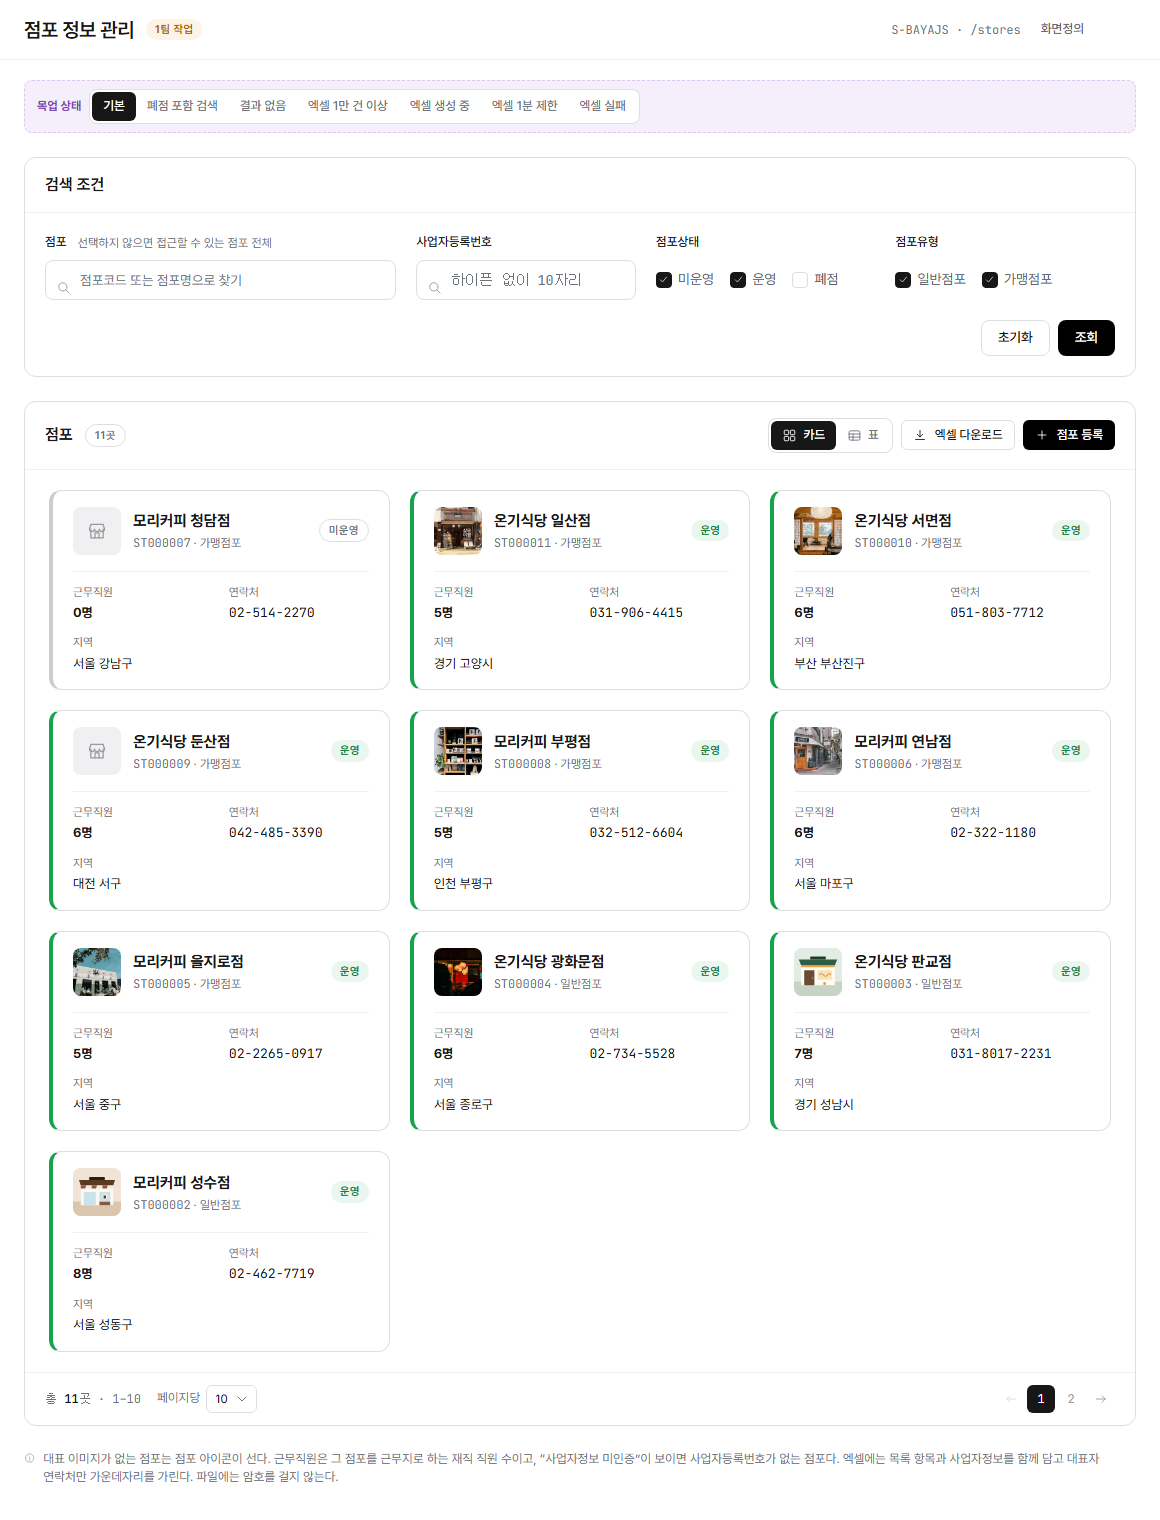
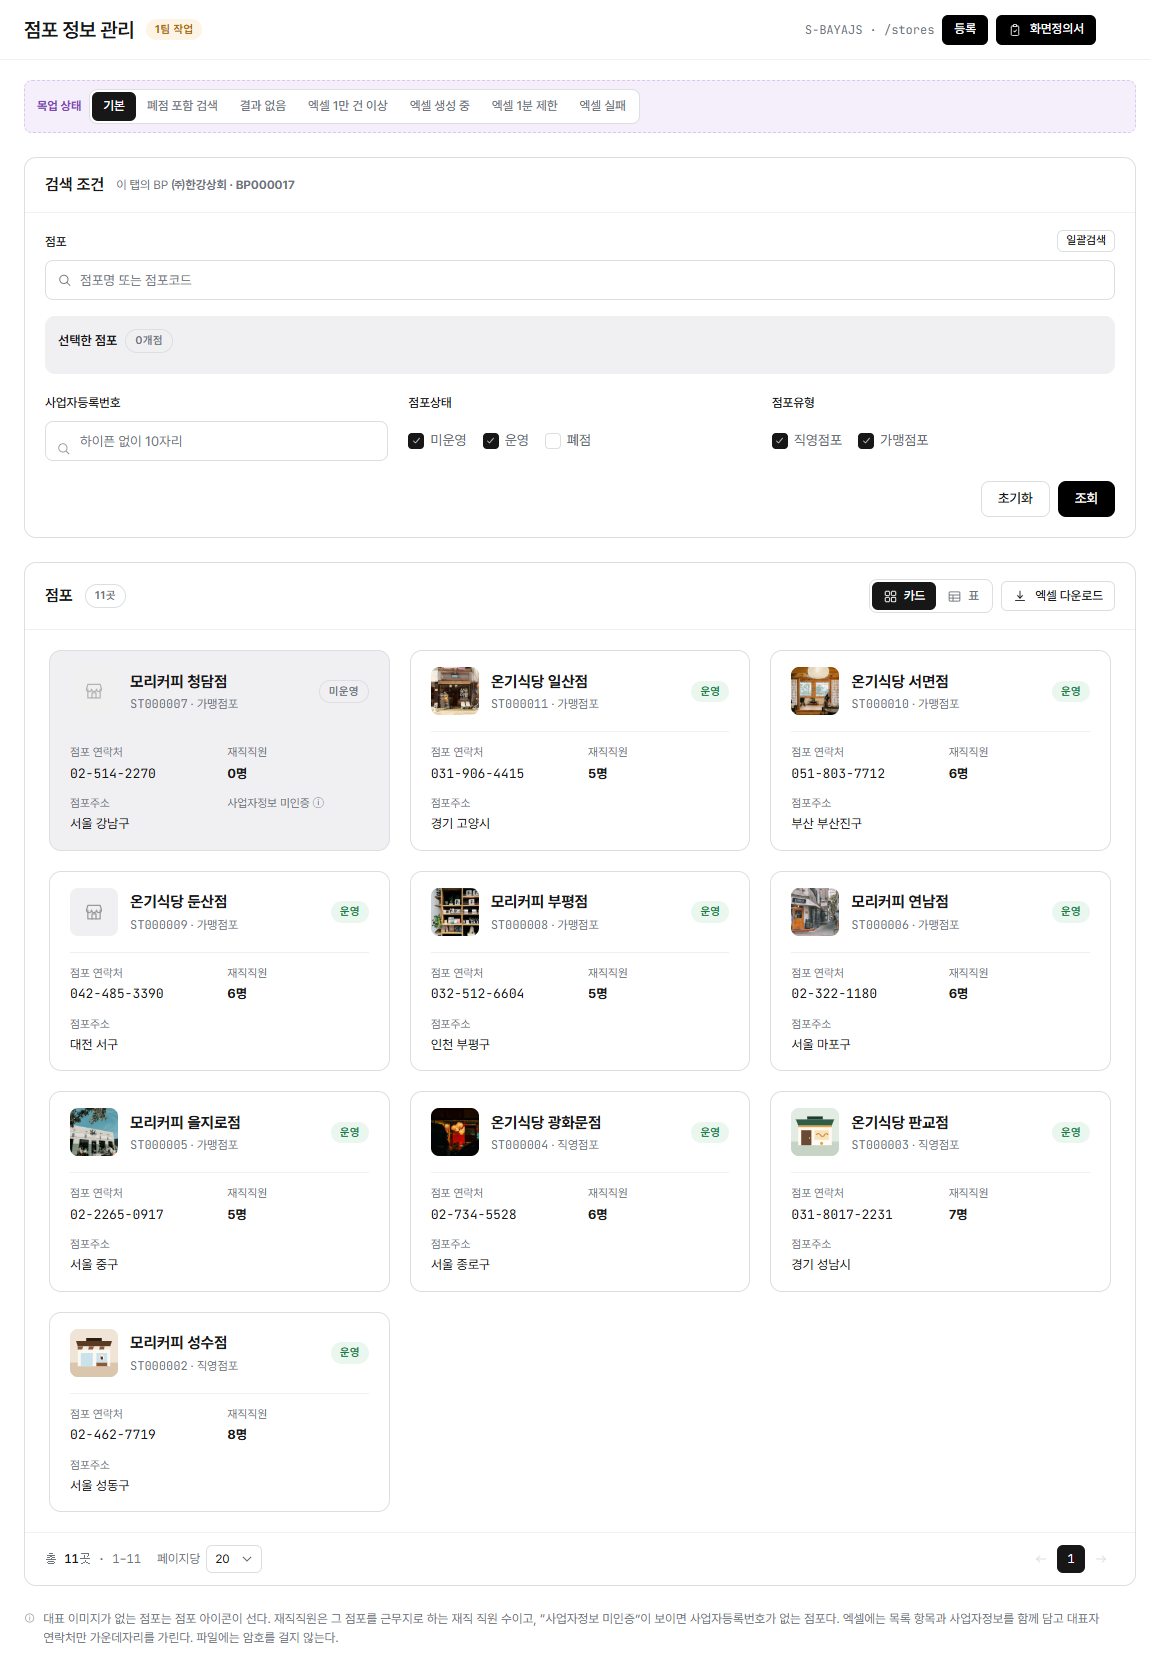
docs: 점포 목록 화면정의서 그림을 지금 목업으로 다시 찍음
화면정의서 PNG 가 옛 목업(카드 왼쪽 색 띠 · 근무직원 · 도구줄 등록 버튼)
그대로라 index.html?embed=1 을 카드 보기로 다시 찍고, 핀 16개를 바뀐 자리로 옮겼다.

diff --git a/docs/mockup/stores/stores-index.screen-def.html b/docs/mockup/stores/stores-index.screen-def.html
@@ -50,21 +50,21 @@
   "purpose": "# 화면 목적 및 기능 — 접근 가능한 점포를 검색·조회하고 카드/표로 목록을 확인하며, 신규 등록·엑셀 다운로드로 이어지는 점포 관리 진입 화면",
   "items": [
     { "x": 150, "y": 280, "title": "점포 · 사업자등록번호", "desc": "정의: 점포를 점포명 · 점포코드로 찾아 여러 곳 고르고([일괄검색]으로 한꺼번에도), 고른 점포만 보인다 · 고르지 않으면 접근 가능한 점포 전체\n사업자등록번호는 따로 넣고 하이픈을 빼고 숫자만 비교한다(일부만 넣어도 찾음, 2026-10-12)" },
-    { "x": 750, "y": 280, "title": "점포상태 필터", "desc": "정의: 미운영 · 운영 · 폐점 중 표시할 상태를 다중 선택" },
-    { "x": 985, "y": 280, "title": "점포유형 필터", "desc": "정의: 직영점포 · 가맹점포 중 표시할 유형을 다중 선택" },
-    { "x": 1045, "y": 337, "title": "초기화 · 조회", "desc": "정의: 검색 조건을 기본값으로 되돌리거나, 조건대로 목록을 다시 불러옴" },
-    { "x": 60, "y": 435, "title": "점포 목록 건수", "desc": "정의: 현재 검색 조건에 해당하는 점포 총 개수 표시" },
-    { "x": 825, "y": 435, "title": "카드 · 표 보기 전환", "desc": "정의: 같은 목록을 카드형 또는 표형으로 바꿔 보는 토글\n표 열: 순번 · 점포코드 · 점포명 · 점포유형 · 점포상태 · 사업자등록번호(없으면 「미인증」) · 점포 연락처 · 점포주소(시 · 군 · 구) · 재직직원 · 등록일. 순번은 전체 건수부터 거꾸로 센다 — 맨 위(최신 등록)가 전체 건수, 가장 오래된 점포가 1" },
-    { "x": 955, "y": 435, "title": "엑셀 다운로드", "desc": "정의: 현재 검색 조건의 점포 목록을 엑셀 파일로 내려받음\n목록 항목과 사업자정보를 함께 담고, 대표자 연락처만 가운데자리를 가림 · 파일에는 암호를 걸지 않음" },
-    { "x": 1065, "y": 435, "title": "점포 등록", "desc": "정의: 신규 점포 등록 화면으로 이동하는 버튼\n제목 줄(「점포 정보 관리」) 오른쪽에 둔다 — 3팀 목록과 같은 자리(2026-10-23). 가맹 마스터 · 가맹 관리자에게는 없다. 플랫폼 사용자는 웨일ERP 바로가기로 BP 를 골라 연 탭에서만 이 화면을 쓰고 그 BP 로 등록한다" },
-    { "x": 97, "y": 529, "title": "대표 이미지 · 아이콘", "desc": "정의: 점포 대표 이미지 표시, 없으면 점포 아이콘이 대신 선다" },
-    { "x": 180, "y": 529, "title": "점포명 · 점포코드 · 유형", "desc": "정의: 점포명과 점포코드, 직영점포/가맹점포 구분을 함께 표시" },
-    { "x": 345, "y": 529, "title": "점포상태 배지", "desc": "정의: 미운영 · 운영 · 폐점 상태를 배지로 표시\n운영이 아닌 점포(미운영 · 폐점)는 카드 바탕을 회색으로 가라앉힌다" },
-    { "x": 82, "y": 612, "title": "점포 연락처", "desc": "정의: 점포 대표 연락처 표시" },
-    { "x": 270, "y": 612, "title": "재직직원", "desc": "정의: 그 점포를 근무지로 하는 재직 직원 수" },
-    { "x": 82, "y": 663, "title": "점포주소", "desc": "정의: 점포 주소의 시 · 군 · 구 단위 지역 표시\n사업자정보 미인증(사업자등록번호 없음)이면 반 칸으로 줄이고 옆에 「사업자정보 미인증」을 둔다 — 카드 높이를 모두 같게 둔다" },
-    { "x": 125, "y": 1398, "title": "페이지네이션 · 페이지당 표시", "desc": "정의: 전체 건수/현재 범위 표시, 페이지당 표시 개수 선택, 이전 · 다음 이동" },
-    { "x": 45, "y": 1458, "title": "안내 문구", "desc": "정의: 대표 이미지 · 재직직원 · 사업자정보 미인증 · 엑셀 항목에 대한 화면 하단 보충 설명" }
+    { "x": 434, "y": 440, "title": "점포상태 필터", "desc": "정의: 미운영 · 운영 · 폐점 중 표시할 상태를 다중 선택" },
+    { "x": 800, "y": 440, "title": "점포유형 필터", "desc": "정의: 직영점포 · 가맹점포 중 표시할 유형을 다중 선택" },
+    { "x": 1040, "y": 499, "title": "초기화 · 조회", "desc": "정의: 검색 조건을 기본값으로 되돌리거나, 조건대로 목록을 다시 불러옴" },
+    { "x": 60, "y": 596, "title": "점포 목록 건수", "desc": "정의: 현재 검색 조건에 해당하는 점포 총 개수 표시" },
+    { "x": 921, "y": 596, "title": "카드 · 표 보기 전환", "desc": "정의: 같은 목록을 카드형 또는 표형으로 바꿔 보는 토글\n표 열: 순번 · 점포코드 · 점포명 · 점포유형 · 점포상태 · 사업자등록번호(없으면 「미인증」) · 점포 연락처 · 점포주소(시 · 군 · 구) · 재직직원 · 등록일. 순번은 전체 건수부터 거꾸로 센다 — 맨 위(최신 등록)가 전체 건수, 가장 오래된 점포가 1" },
+    { "x": 1048, "y": 596, "title": "엑셀 다운로드", "desc": "정의: 현재 검색 조건의 점포 목록을 엑셀 파일로 내려받음\n목록 항목과 사업자정보를 함께 담고, 대표자 연락처만 가운데자리를 가림 · 파일에는 암호를 걸지 않음" },
+    { "x": 955, "y": 30, "title": "점포 등록", "desc": "정의: 신규 점포 등록 화면으로 이동하는 버튼\n제목 줄(「점포 정보 관리」) 오른쪽에 둔다 — 3팀 목록과 같은 자리(2026-10-23). 가맹 마스터 · 가맹 관리자에게는 없다. 플랫폼 사용자는 웨일ERP 바로가기로 BP 를 골라 연 탭에서만 이 화면을 쓰고 그 BP 로 등록한다" },
+    { "x": 94, "y": 691, "title": "대표 이미지 · 아이콘", "desc": "정의: 점포 대표 이미지 표시, 없으면 점포 아이콘이 대신 선다" },
+    { "x": 216, "y": 681, "title": "점포명 · 점포코드 · 유형", "desc": "정의: 점포명과 점포코드, 직영점포/가맹점포 구분을 함께 표시" },
+    { "x": 340, "y": 691, "title": "점포상태 배지", "desc": "정의: 미운영 · 운영 · 폐점 상태를 배지로 표시\n운영이 아닌 점포(미운영 · 폐점)는 카드 바탕을 회색으로 가라앉힌다" },
+    { "x": 82, "y": 763, "title": "점포 연락처", "desc": "정의: 점포 대표 연락처 표시" },
+    { "x": 238, "y": 763, "title": "재직직원", "desc": "정의: 그 점포를 근무지로 하는 재직 직원 수" },
+    { "x": 82, "y": 814, "title": "점포주소", "desc": "정의: 점포 주소의 시 · 군 · 구 단위 지역 표시\n사업자정보 미인증(사업자등록번호 없음)이면 반 칸으로 줄이고 옆에 「사업자정보 미인증」을 둔다 — 카드 높이를 모두 같게 둔다" },
+    { "x": 125, "y": 1558, "title": "페이지네이션 · 페이지당 표시", "desc": "정의: 전체 건수/현재 범위 표시, 페이지당 표시 개수 선택, 이전 · 다음 이동" },
+    { "x": 45, "y": 1628, "title": "안내 문구", "desc": "정의: 대표 이미지 · 재직직원 · 사업자정보 미인증 · 엑셀 항목에 대한 화면 하단 보충 설명" }
   ]
 }
 </script>
